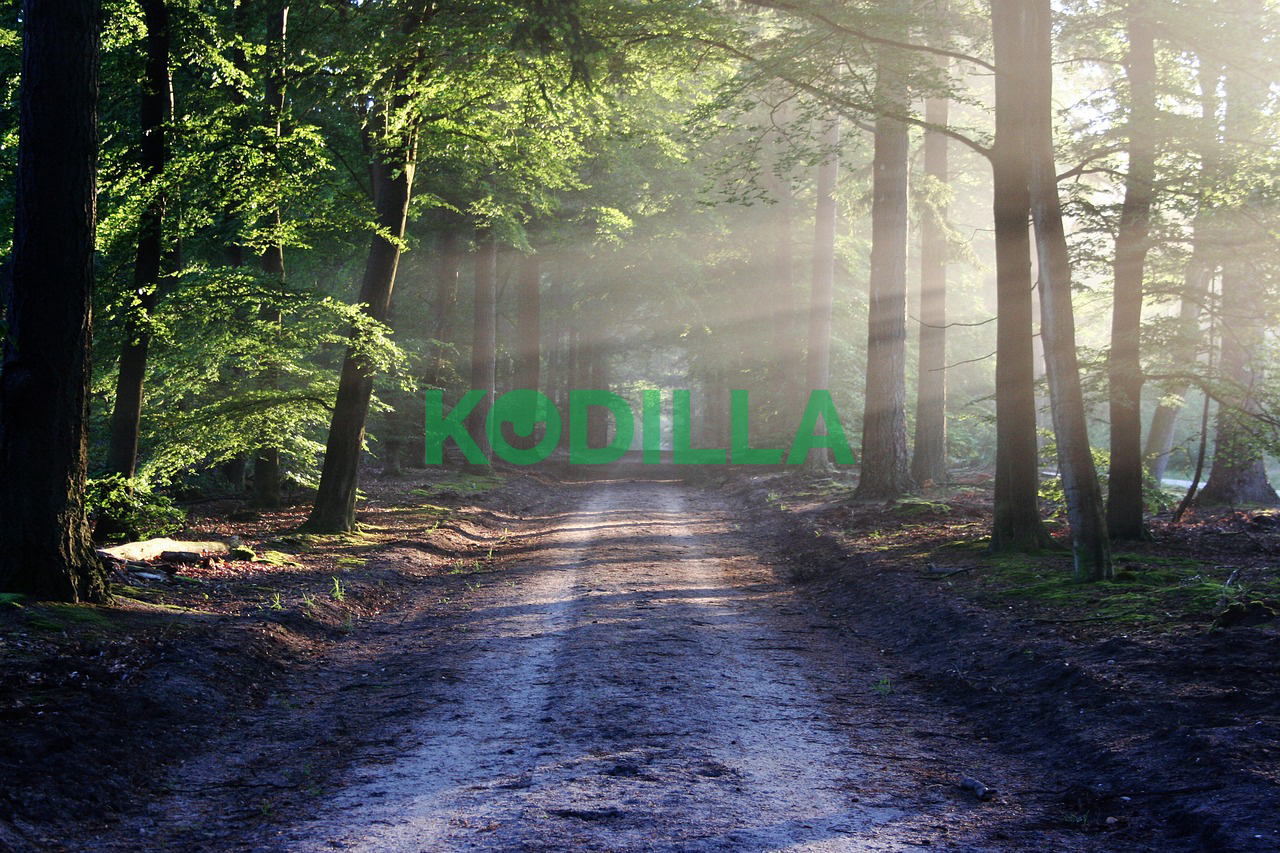
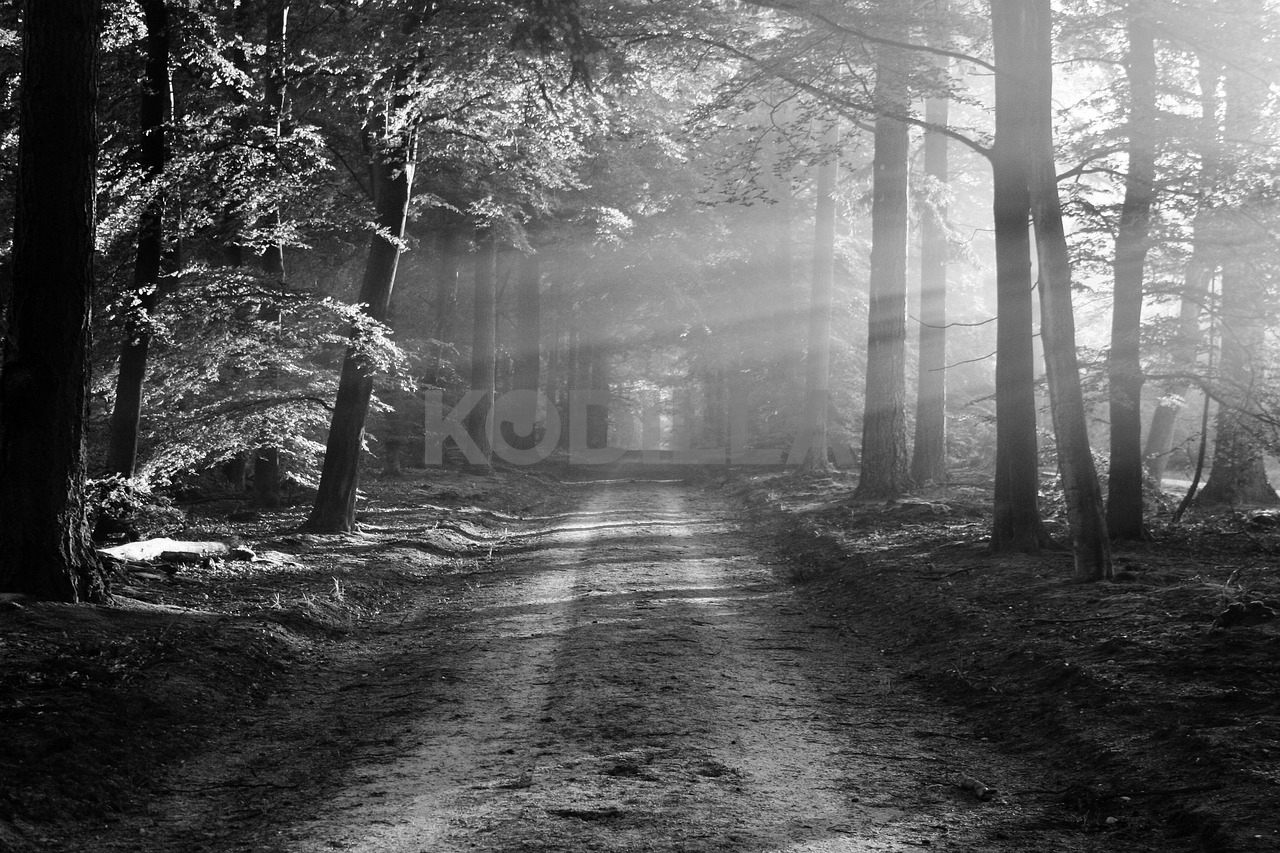
add more functions in Jimp

diff --git a/app.js b/app.js
@@ -3,15 +3,33 @@ const Jimp = require("jimp");
 const inquirer = require("inquirer");
 
 const addTextWatermarkToImage = async function (inputFile, outputFile, text) {
-  const image = await Jimp.read(inputFile);
-  const font = await Jimp.loadFont(Jimp.FONT_SANS_32_BLACK);
-  const textData = {
-    text,
-    alignmentX: Jimp.HORIZONTAL_ALIGN_CENTER,
-    alignmentY: Jimp.VERTICAL_ALIGN_MIDDLE,
-  };
-  image.print(font, 0, 0, textData, image.getWidth(), image.getHeight());
-  await image.quality(100).writeAsync(outputFile);
+  try {
+    const image = await Jimp.read(inputFile);
+    const font = await Jimp.loadFont(Jimp.FONT_SANS_32_BLACK);
+    const textData = {
+      text,
+      alignmentX: Jimp.HORIZONTAL_ALIGN_CENTER,
+      alignmentY: Jimp.VERTICAL_ALIGN_MIDDLE,
+    };
+    image.print(font, 0, 0, textData, image.getWidth(), image.getHeight());
+
+    const answerEffect = await inquirer.prompt([
+      {
+        name: "start",
+        type: "input",
+        message: "Do you want to add more effects ? y/n",
+      },
+    ]);
+
+    if (answerEffect.start === "y") {
+      moreEffectsApp(image, outputFile);
+    } else {
+      await image.quality(100).writeAsync(outputFile);
+      console.log("Success! Your watermark has been added");
+    }
+  } catch (error) {
+    console.log("Something went wrong... Try again!");
+  }
 };
 
 const addImageWatermarkToImage = async function (
@@ -19,15 +37,195 @@ const addImageWatermarkToImage = async function (
   outputFile,
   watermarkFile
 ) {
-  const image = await Jimp.read(inputFile);
-  const watermark = await Jimp.read(watermarkFile);
-  const x = image.getWidth() / 2 - watermark.getWidth() / 2;
-  const y = image.getHeight() / 2 - watermark.getHeight() / 2;
-  image.composite(watermark, x, y, {
-    mode: Jimp.BLEND_SOURCE_OVER,
-    opacitySource: 0.5,
-  });
-  await image.quality(100).writeAsync(outputFile);
+  try {
+    const image = await Jimp.read(inputFile);
+    const watermark = await Jimp.read(watermarkFile);
+    const x = image.getWidth() / 2 - watermark.getWidth() / 2;
+    const y = image.getHeight() / 2 - watermark.getHeight() / 2;
+    image.composite(watermark, x, y, {
+      mode: Jimp.BLEND_SOURCE_OVER,
+      opacitySource: 0.5,
+    });
+
+    const answerEffect = await inquirer.prompt([
+      {
+        name: "start",
+        type: "input",
+        message: "Do you want to add more effects ? y/n",
+      },
+    ]);
+
+    if (answerEffect.start === "y") {
+      moreEffectsApp(image, outputFile);
+    } else {
+      await image.quality(100).writeAsync(outputFile);
+      console.log("Success! Your watermark has been added");
+    }
+  } catch (error) {
+    console.log("Something went wrong... Try again!");
+  }
+};
+
+const moreEffectsApp = async (image, outputImage) => {
+  const options = await inquirer.prompt([
+    {
+      name: "imageEffect",
+      type: "list",
+      choices: [
+        "Make image brighter",
+        "Increase contrast",
+        "Make image b&w",
+        "Invert image",
+      ],
+    },
+  ]);
+  switch (options.imageEffect) {
+    case "Make image brighter":
+      const brighterValue = await inquirer.prompt([
+        {
+          name: "value",
+          type: "input",
+          message: "Insert value between -1 and 1",
+        },
+      ]);
+      options.brighterValue = brighterValue.value;
+      addBrighterToImage(image, outputImage, options.brighterValue);
+      break;
+
+    case "Increase contrast":
+      const contrastValue = await inquirer.prompt([
+        {
+          name: "value",
+          type: "input",
+          message: "Insert value between -1 and 1",
+        },
+      ]);
+      options.contrastValue = contrastValue.value;
+
+      addContrastToImage(image, outputImage, options.contrastValue);
+      break;
+
+    case "Make image b&w":
+      blackWhiteToImage(image, outputImage);
+      break;
+
+    case "Invert image":
+      invertToImage(image, outputImage);
+      break;
+  }
+};
+
+const addBrighterToImage = async function (
+  inputFile,
+  outputFile,
+  brighterValue
+) {
+  try {
+    const image = await Jimp.read(inputFile);
+    image.brightness(parseFloat(brighterValue));
+
+    const answerEffect = await inquirer.prompt([
+      {
+        name: "start",
+        type: "input",
+        message: "Do you want to add more effects ? y/n",
+      },
+    ]);
+
+    if (answerEffect.start === "y") {
+      moreEffectsApp(image, outputFile);
+    } else {
+      await image.quality(100).writeAsync(outputFile);
+      console.log(
+        "Success! Your watermark has been added and your image has more effect"
+      );
+      startApp();
+    }
+  } catch (error) {
+    console.log("Wrong value!");
+  }
+};
+
+const addContrastToImage = async function (
+  inputFile,
+  outputFile,
+  contrastValue
+) {
+  try {
+    const image = await Jimp.read(inputFile);
+    image.contrast(parseFloat(contrastValue));
+    const answerEffect = await inquirer.prompt([
+      {
+        name: "start",
+        type: "input",
+        message: "Do you want to add more effects ? y/n",
+      },
+    ]);
+
+    if (answerEffect.start === "y") {
+      moreEffectsApp(image, outputFile);
+    } else {
+      await image.quality(100).writeAsync(outputFile);
+      console.log(
+        "Success! Your watermark has been added and your image has more effect"
+      );
+      startApp();
+    }
+  } catch (error) {
+    console.log("Wrong value!");
+  }
+};
+
+const blackWhiteToImage = async function (inputFile, outputFile) {
+  try {
+    const image = await Jimp.read(inputFile);
+    image.greyscale();
+    const answerEffect = await inquirer.prompt([
+      {
+        name: "start",
+        type: "input",
+        message: "Do you want to add more effects ? y/n",
+      },
+    ]);
+
+    if (answerEffect.start === "y") {
+      moreEffectsApp(image, outputFile);
+    } else {
+      await image.quality(100).writeAsync(outputFile);
+      console.log(
+        "Success! Your watermark has been added and your image has more effect"
+      );
+      startApp();
+    }
+  } catch (error) {
+    console.log("Something went wrong... Try again!");
+  }
+};
+
+const invertToImage = async function (inputFile, outputFile) {
+  try {
+    const image = await Jimp.read(inputFile);
+    image.invert();
+    const answerEffect = await inquirer.prompt([
+      {
+        name: "start",
+        type: "input",
+        message: "Do you want to add more effects ? y/n",
+      },
+    ]);
+
+    if (answerEffect.start === "y") {
+      moreEffectsApp(image, outputFile);
+    } else {
+      await image.quality(100).writeAsync(outputFile);
+      console.log(
+        "Success! Your watermark has been added and your image has more effect"
+      );
+      startApp();
+    }
+  } catch (error) {
+    console.log("Something went wrong... Try again!");
+  }
 };
 
 const prepareOutputFilename = (image) => {
@@ -59,6 +257,7 @@ const startApp = async () => {
       choices: ["Text watermark", "Image watermark"],
     },
   ]);
+
   if (options.watermarkType === "Text watermark") {
     const text = await inquirer.prompt([
       {
@@ -68,15 +267,13 @@ const startApp = async () => {
       },
     ]);
     options.watermarkText = text.value;
-    const newFilename = prepareOutputFilename(options.inputImage);
+
     if (fs.existsSync(`./img/${options.inputImage}`)) {
       addTextWatermarkToImage(
         `./img/${options.inputImage}`,
         `./img/${prepareOutputFilename(options.inputImage)}`,
         options.watermarkText
       );
-      console.log("Success! Your watermark has been added");
-      startApp();
     } else {
       console.log("Something went wrong... Try again");
     }
@@ -90,14 +287,15 @@ const startApp = async () => {
       },
     ]);
     options.watermarkImage = image.filename;
-    if (fs.existsSync(`./img/${options.inputImage}`)) {
+    if (
+      fs.existsSync(`./img/${options.inputImage}`) &&
+      fs.existsSync(`./img/${options.watermarkImage}`)
+    ) {
       addImageWatermarkToImage(
         `./img/${options.inputImage}`,
         `./img/${prepareOutputFilename(options.inputImage)}`,
         `./img/${options.watermarkImage}`
       );
-      console.log("Success! Your watermark has been added");
-      startApp();
     } else {
       console.log("Something went wrong... Try again");
     }
